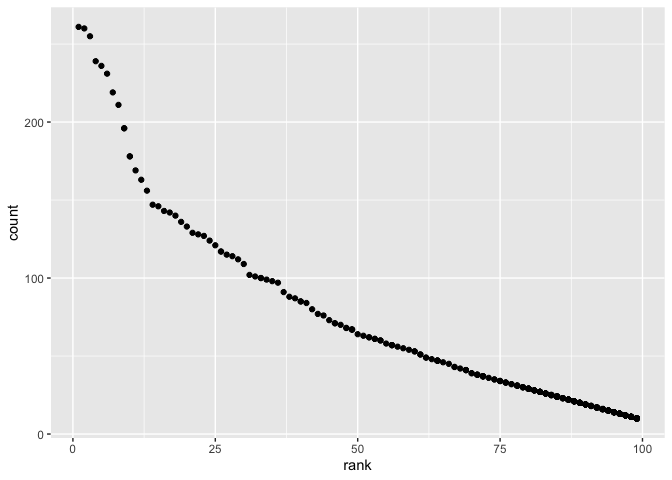
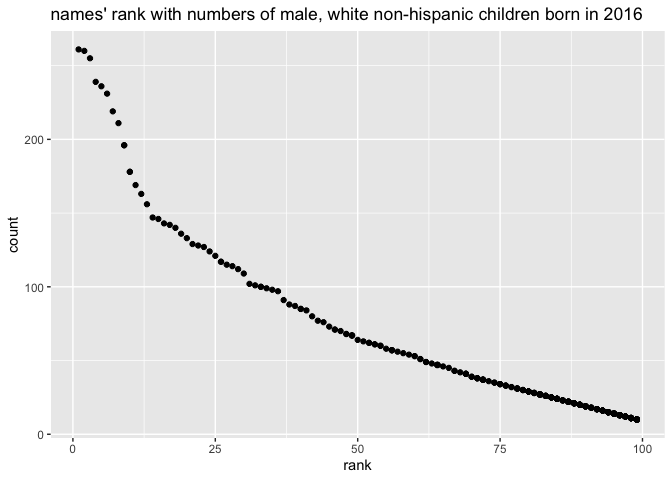
Update

diff --git a/p8105_hw2_yz4182.md b/p8105_hw2_yz4182.md
@@ -1,5 +1,5 @@
 
-This is a R MARKDOWN file.
+This is a R MARKDOWN file for homework 2.
 
 ## Problem 1 read and clean the Mr. Trash Wheel dataset.
 
@@ -27,7 +27,7 @@ precipitation_2019_df =
 
 precipitation_df = 
   bind_rows(precipitation_2018_df, precipitation_2019_df) %>% 
-  mutate(month = month.name[month]) # no idea what else solution to combine the df
+  mutate(month = month.name[month])
 ```
 
 The number of observation in trash wheel dataset is 344, and the number
@@ -135,7 +135,7 @@ unemployment_df =
 ## Join the three dataset above.
 
 ``` r
-join_two_df = left_join(pols_month_df, snp_df, by = c("year" = "year", "month" = "month")) # how to do this with two same column? 
+join_two_df = left_join(pols_month_df, snp_df, by = c("year" = "year", "month" = "month")) 
 join_df = left_join(join_two_df, unemployment_df, by = c("year" = "year", "month" = "month"))
 ```
 
@@ -179,14 +179,72 @@ olivia_popl_df =
          childs_first_name == "OLIVIA"
          ) %>% 
   arrange(year_of_birth)
+knitr::kable(olivia_popl_df)
+```
 
+| year\_of\_birth | gender | ethnicity                  | childs\_first\_name | count | rank |
+|----------------:|:-------|:---------------------------|:--------------------|------:|-----:|
+|            2011 | FEMALE | asian and pacific islander | OLIVIA              |    89 |    4 |
+|            2011 | FEMALE | black non hispanic         | OLIVIA              |    52 |   10 |
+|            2011 | FEMALE | hispanic                   | OLIVIA              |    86 |   18 |
+|            2011 | FEMALE | white non hispanic         | OLIVIA              |   213 |    2 |
+|            2012 | FEMALE | asian and paci             | OLIVIA              |   132 |    3 |
+|            2012 | FEMALE | black non hisp             | OLIVIA              |    58 |    8 |
+|            2012 | FEMALE | hispanic                   | OLIVIA              |    77 |   22 |
+|            2012 | FEMALE | white non hisp             | OLIVIA              |   198 |    4 |
+|            2013 | FEMALE | asian and pacific islander | OLIVIA              |   109 |    3 |
+|            2013 | FEMALE | black non hispanic         | OLIVIA              |    64 |    6 |
+|            2013 | FEMALE | hispanic                   | OLIVIA              |    87 |   22 |
+|            2013 | FEMALE | white non hispanic         | OLIVIA              |   233 |    1 |
+|            2014 | FEMALE | asian and pacific islander | OLIVIA              |   141 |    1 |
+|            2014 | FEMALE | black non hispanic         | OLIVIA              |    52 |    8 |
+|            2014 | FEMALE | hispanic                   | OLIVIA              |    96 |   16 |
+|            2014 | FEMALE | white non hispanic         | OLIVIA              |   248 |    1 |
+|            2015 | FEMALE | asian and pacific islander | OLIVIA              |   188 |    1 |
+|            2015 | FEMALE | black non hispanic         | OLIVIA              |    82 |    4 |
+|            2015 | FEMALE | hispanic                   | OLIVIA              |    94 |   16 |
+|            2015 | FEMALE | white non hispanic         | OLIVIA              |   225 |    1 |
+|            2016 | FEMALE | asian and pacific islander | OLIVIA              |   172 |    1 |
+|            2016 | FEMALE | black non hispanic         | OLIVIA              |    49 |    8 |
+|            2016 | FEMALE | hispanic                   | OLIVIA              |   108 |   13 |
+|            2016 | FEMALE | white non hispanic         | OLIVIA              |   230 |    1 |
+
+``` r
 male_popl_df =
   filter(popl_babynames_df,
          gender == "MALE",
          rank == 1
          ) %>% 
   arrange(year_of_birth)
+knitr::kable(male_popl_df)
 ```
+
+| year\_of\_birth | gender | ethnicity                  | childs\_first\_name | count | rank |
+|----------------:|:-------|:---------------------------|:--------------------|------:|-----:|
+|            2011 | MALE   | asian and pacific islander | ETHAN               |   177 |    1 |
+|            2011 | MALE   | black non hispanic         | JAYDEN              |   184 |    1 |
+|            2011 | MALE   | hispanic                   | JAYDEN              |   426 |    1 |
+|            2011 | MALE   | white non hispanic         | MICHAEL             |   292 |    1 |
+|            2012 | MALE   | asian and paci             | RYAN                |   197 |    1 |
+|            2012 | MALE   | black non hisp             | JAYDEN              |   171 |    1 |
+|            2012 | MALE   | hispanic                   | JAYDEN              |   364 |    1 |
+|            2012 | MALE   | white non hisp             | JOSEPH              |   300 |    1 |
+|            2013 | MALE   | asian and pacific islander | JAYDEN              |   220 |    1 |
+|            2013 | MALE   | black non hispanic         | ETHAN               |   146 |    1 |
+|            2013 | MALE   | hispanic                   | JAYDEN              |   352 |    1 |
+|            2013 | MALE   | white non hispanic         | DAVID               |   304 |    1 |
+|            2014 | MALE   | asian and pacific islander | JAYDEN              |   187 |    1 |
+|            2014 | MALE   | black non hispanic         | ETHAN               |   138 |    1 |
+|            2014 | MALE   | hispanic                   | LIAM                |   312 |    1 |
+|            2014 | MALE   | white non hispanic         | JOSEPH              |   300 |    1 |
+|            2015 | MALE   | asian and pacific islander | JAYDEN              |   190 |    1 |
+|            2015 | MALE   | black non hispanic         | NOAH                |   163 |    1 |
+|            2015 | MALE   | hispanic                   | LIAM                |   356 |    1 |
+|            2015 | MALE   | white non hispanic         | DAVID               |   299 |    1 |
+|            2016 | MALE   | asian and pacific islander | ETHAN               |   193 |    1 |
+|            2016 | MALE   | black non hispanic         | NOAH                |   148 |    1 |
+|            2016 | MALE   | hispanic                   | LIAM                |   387 |    1 |
+|            2016 | MALE   | white non hispanic         | JOSEPH              |   261 |    1 |
 
 ``` r
 malename_2016_df = 
@@ -195,7 +253,7 @@ malename_2016_df =
          gender == "MALE",
          ethnicity == "white non hispanic",
          )
-ggplot(malename_2016_df, aes(x = rank, y = count)) + geom_point()
+ggplot(malename_2016_df, aes(x = rank, y = count)) + geom_point() + ggtitle("names' rank with numbers of male, white non-hispanic children born in 2016")
 ```
 
 ![](p8105_hw2_yz4182_files/figure-gfm/unnamed-chunk-9-1.png)<!-- -->
